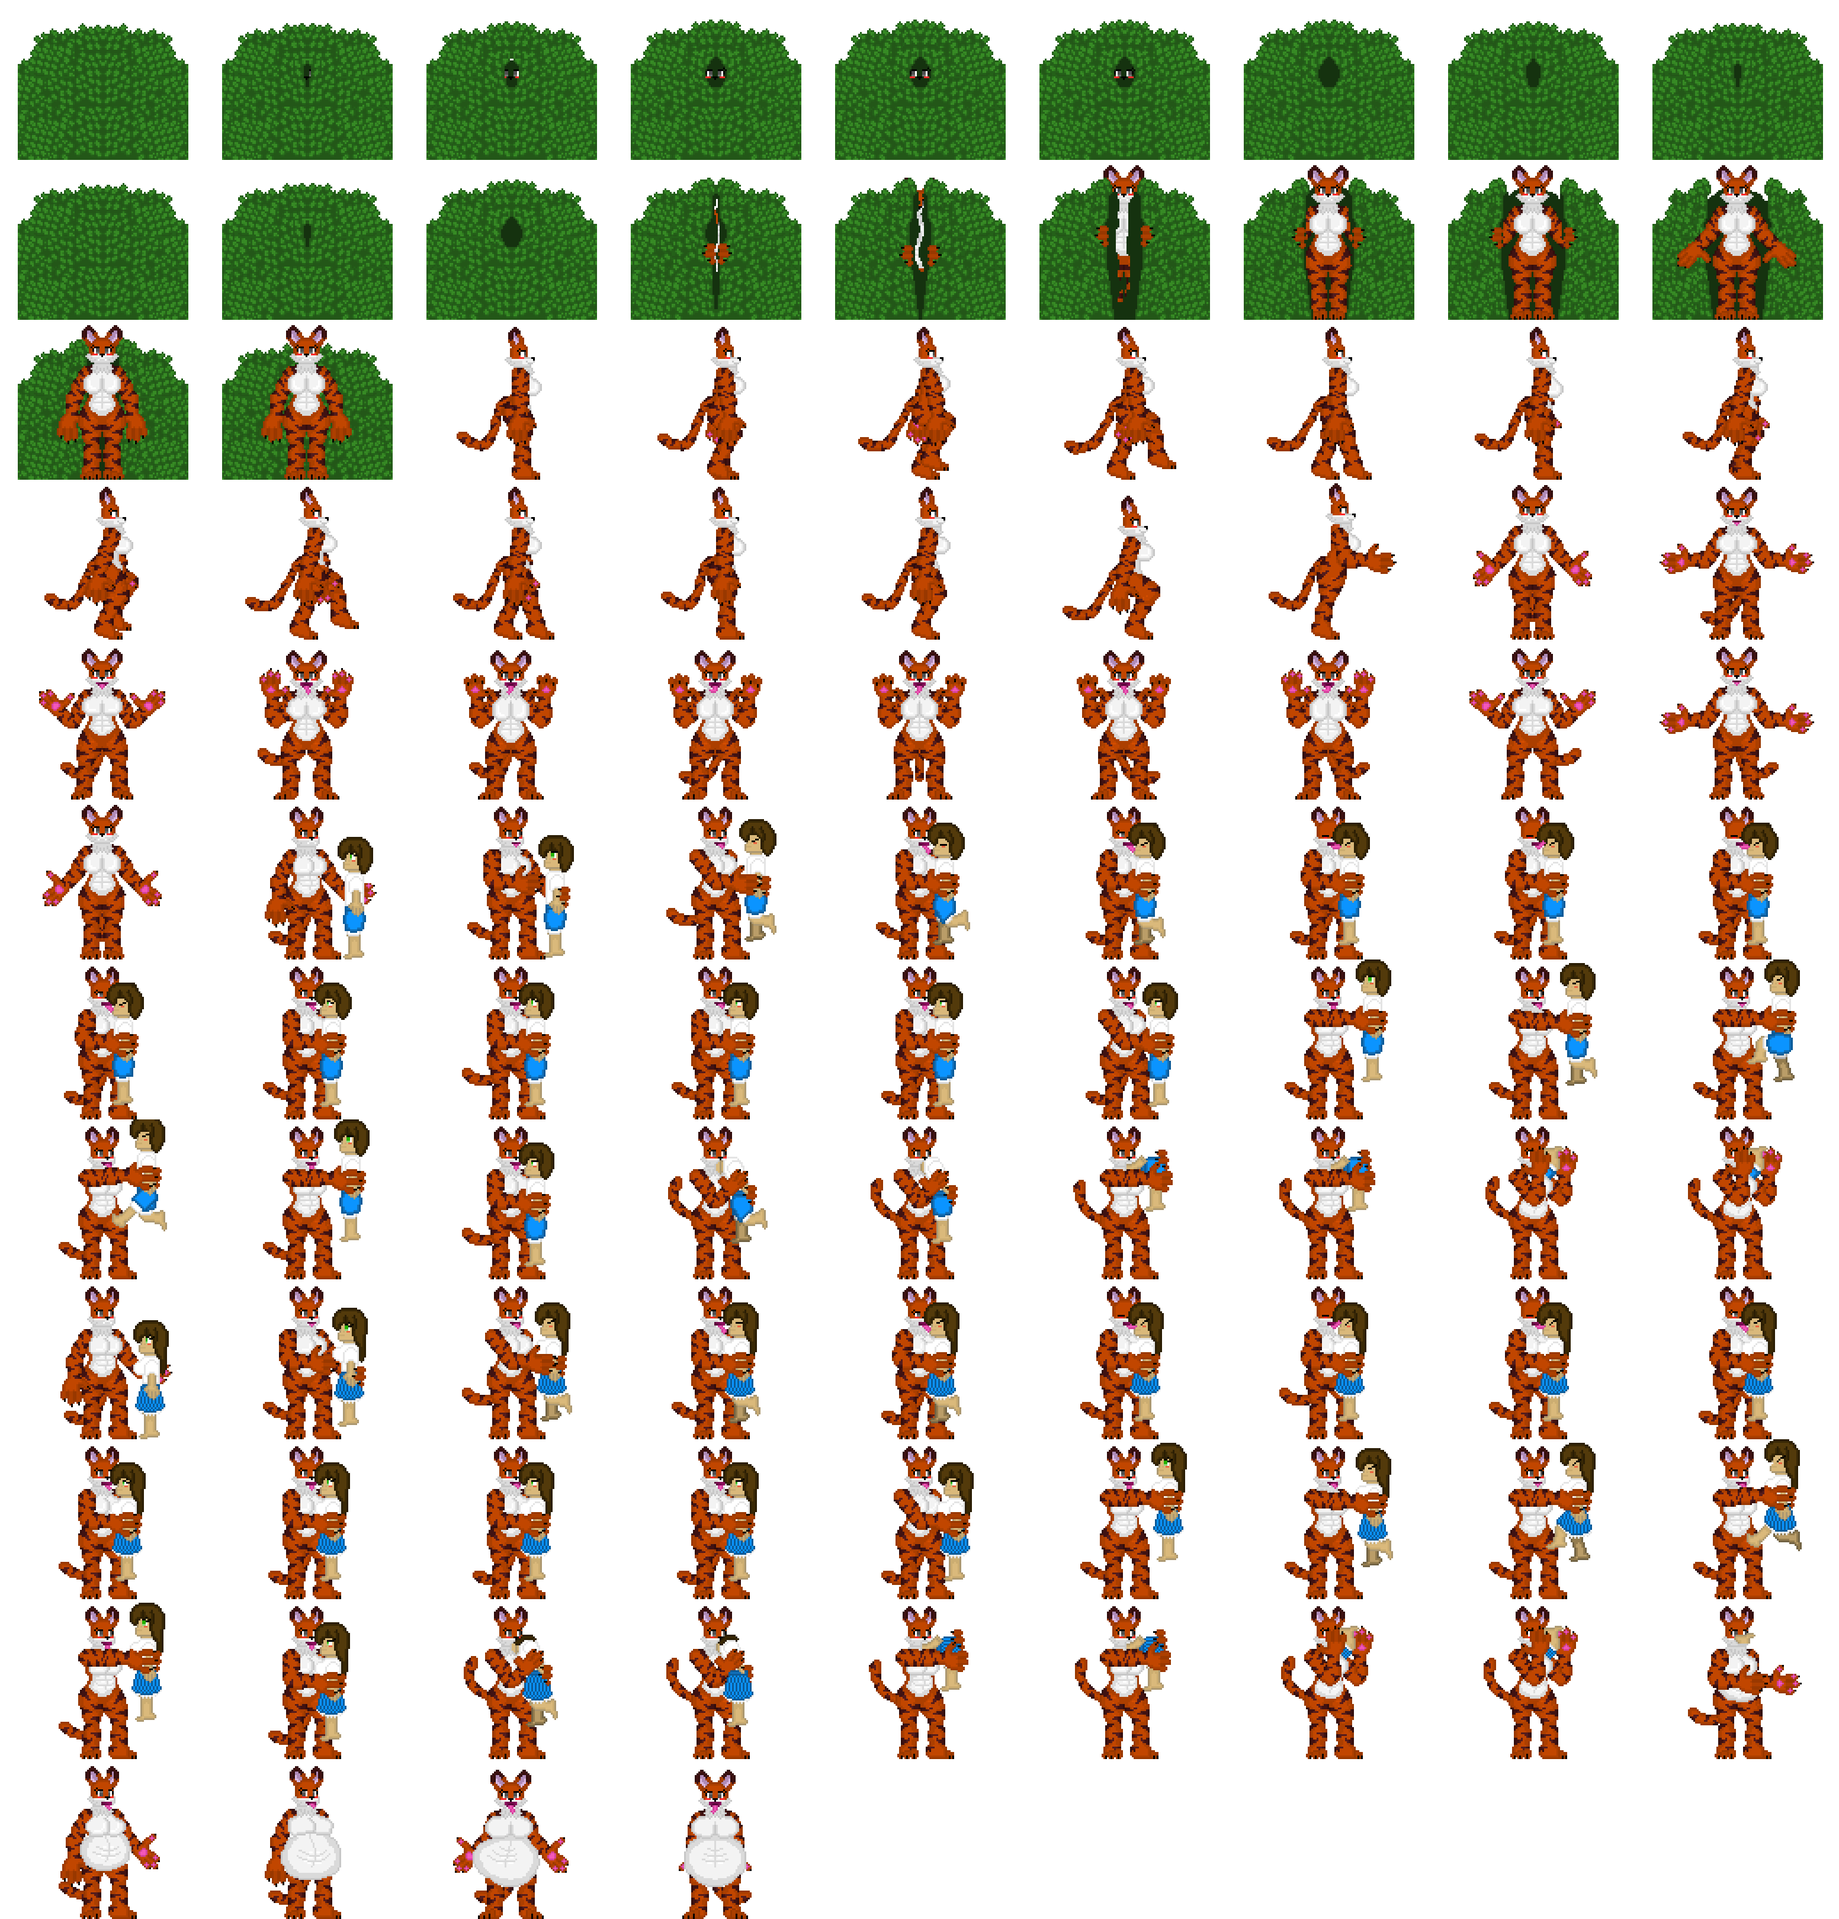
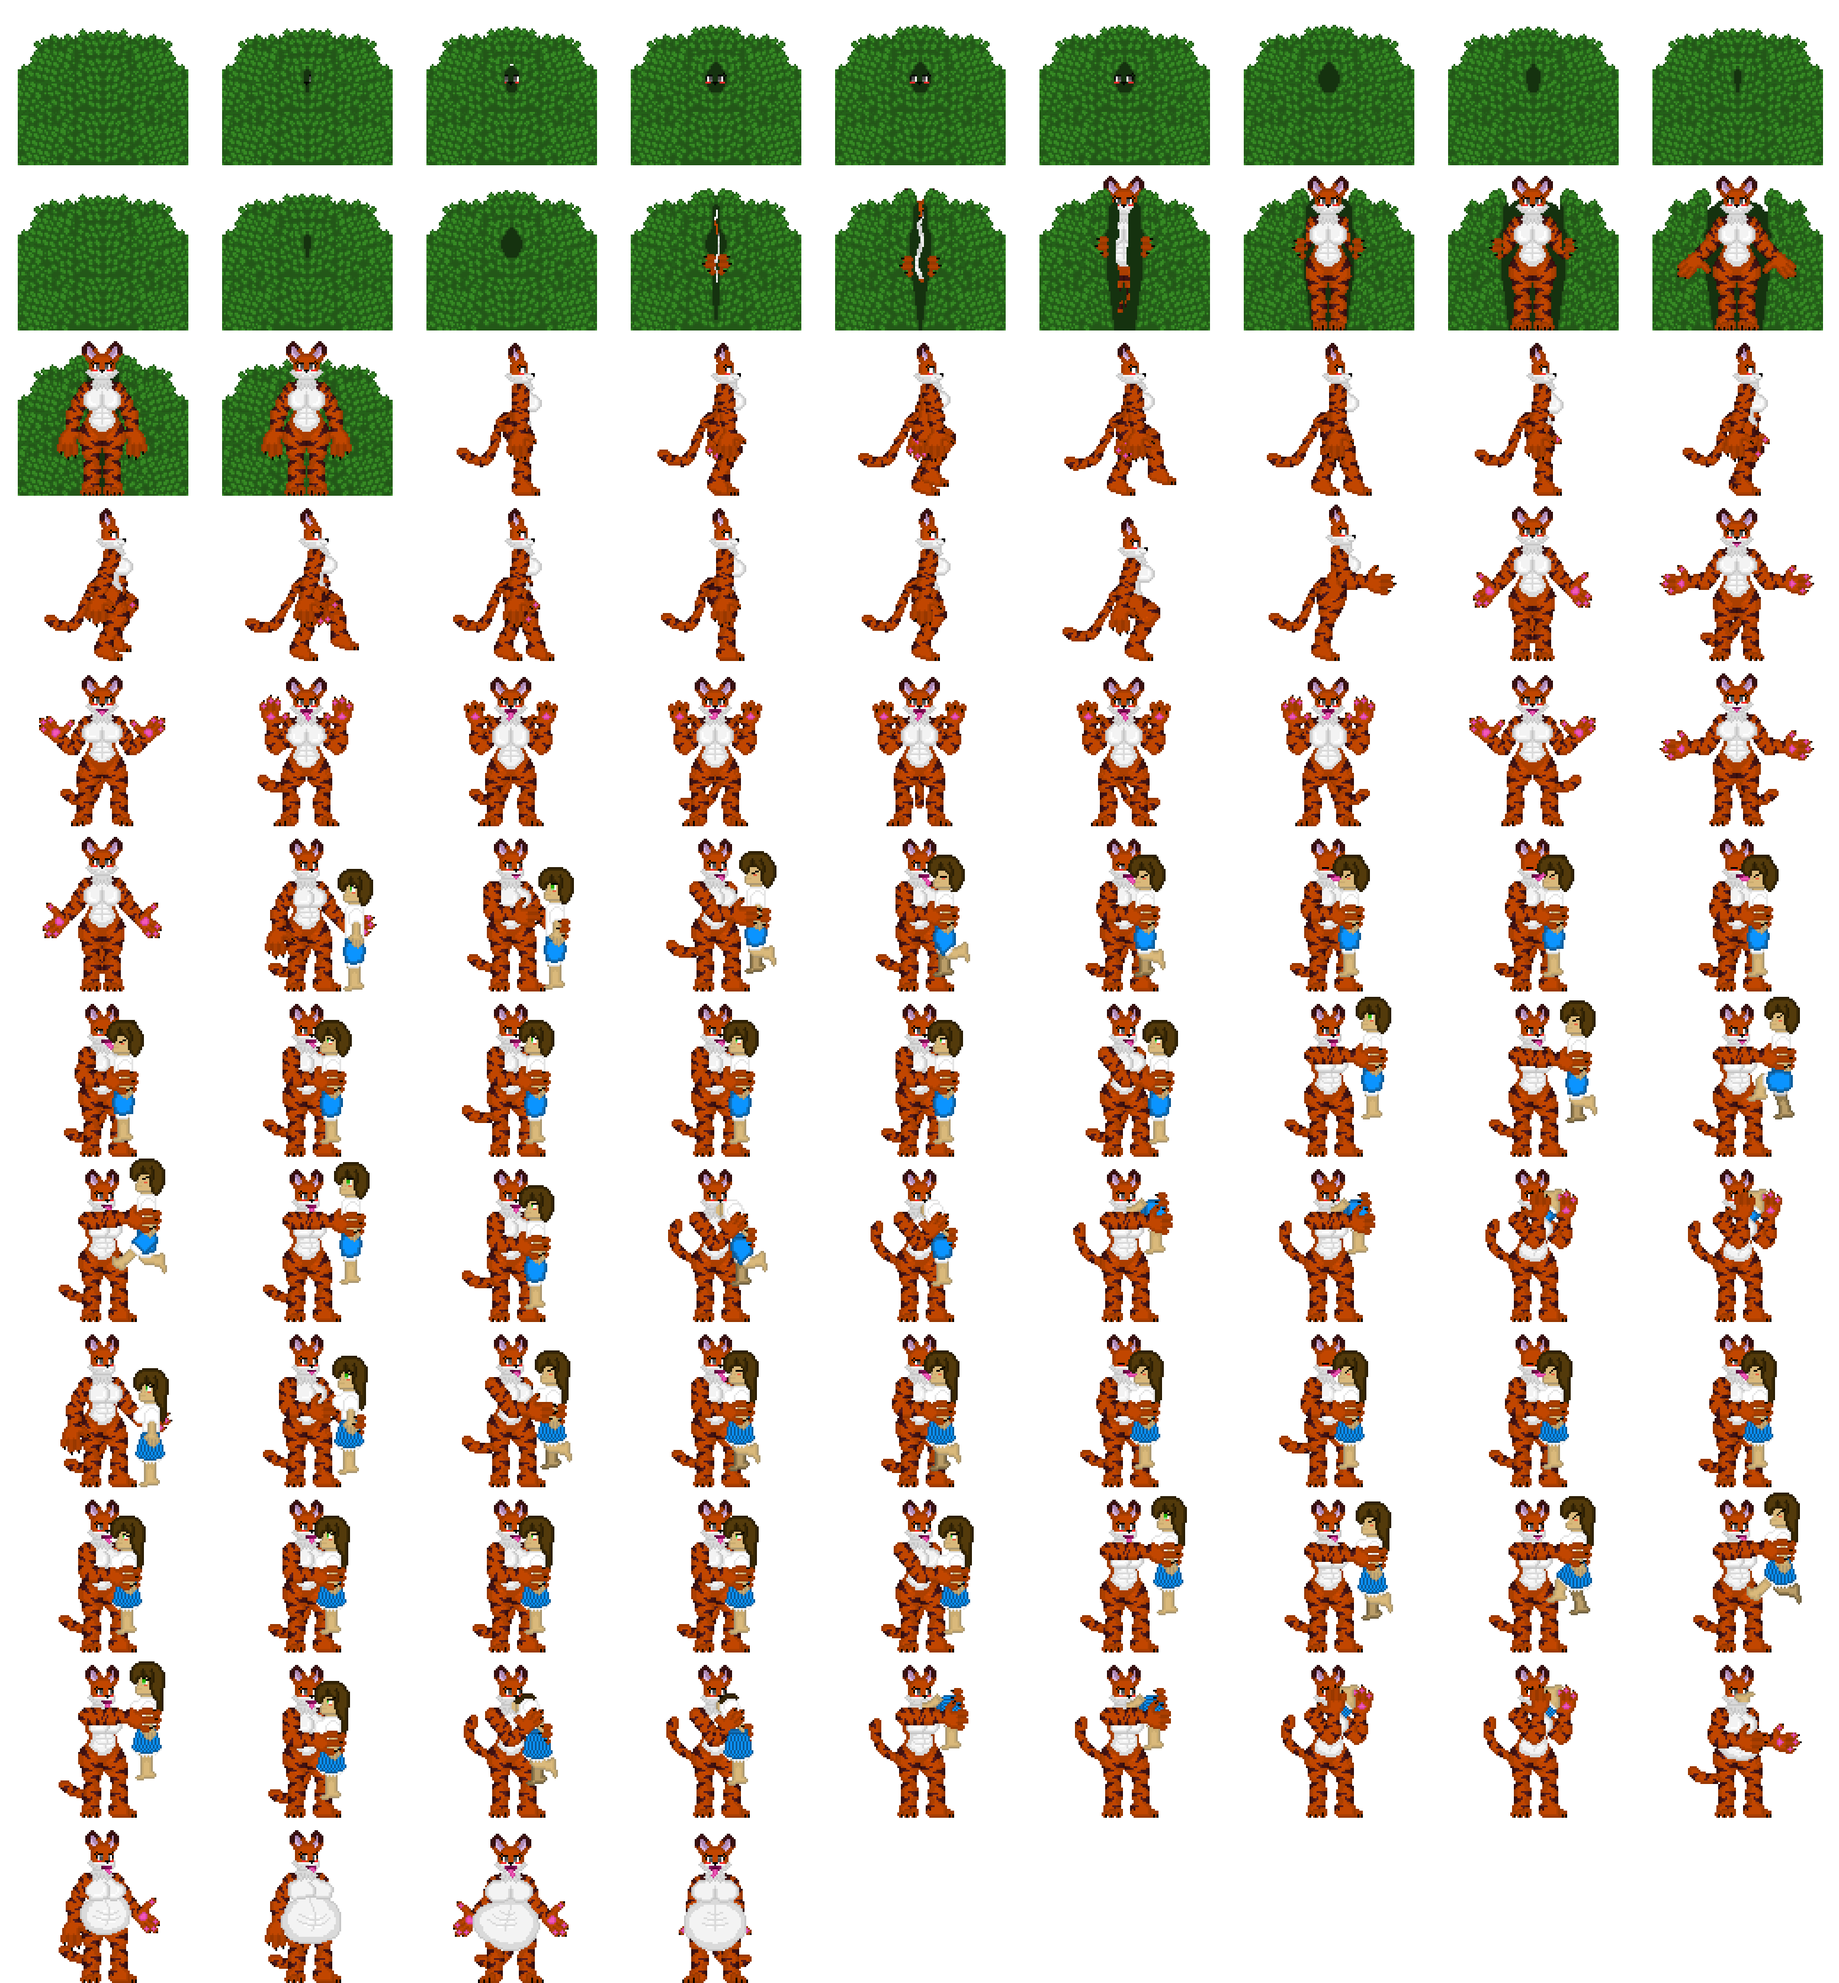
bug fixes and improvements
fixed a few bugs
-w not working for animation viewer.
-tiger animation bugs
-hide mobile buttons during animation viewing

diff --git a/scripts/enemyScripts/tiger.js b/scripts/enemyScripts/tiger.js
@@ -63,7 +63,7 @@ class tiger extends enemy {
         //male animations
         if (sex === 0) {
             this.anims.create({ key: 'tigerGrab', frames: this.anims.generateFrameNames('tigerFemale', { start: 46, end: 59 }), frameRate: 7, repeat: 0 });
-            this.anims.create({ key: 'tigerStruggle', frames: this.anims.generateFrameNames('tigerFemale', { start: 60, end: 64 }), frameRate: 7, repeat: -1 });
+            this.anims.create({ key: 'tigerStruggle', frames: this.anims.generateFrameNames('tigerFemale', { start: 60, end: 63 }), frameRate: 7, repeat: -1 });
             this.anims.create({ key: 'tigerSwallow1', frames: this.anims.generateFrameNames('tigerFemale', { start: 65, end: 71 }), frameRate: 7, repeat: 0 });
 
             this.anims.create({ key: 'tigerBoobaGrab', frames: this.anims.generateFrameNames('tigerFemaleExtension', { start: 27, end: 30 }), frameRate: 7, repeat: -1 });
@@ -90,7 +90,6 @@ class tiger extends enemy {
         }
         //this.anims.create({ key: 'tigerStruggleBreakRight', frames: this.anims.generateFrameNames('tigerFemale', { start: 58, end: 62 }), frameRate: 7, repeat: -1 });
         this.anims.create({ key: 'tigerSwallow2', frames: this.anims.generateFrameNames('tigerFemale', { start: 98, end: 102 }), frameRate: 7, repeat: 0 });
-
         this.anims.create({ key: 'tigerTummyPush1', frames: this.anims.generateFrameNames('tigerFemaleDigestion', { start: 103-103, end: 106-103 }), frameRate: 7, repeat: 0 });
         this.anims.create({ key: 'tigerTummyPush2', frames: this.anims.generateFrameNames('tigerFemaleDigestion', { start: 107-103, end: 110-103 }), frameRate: 7, repeat: 0 });
         this.anims.create({ key: 'tigerTummyWobble1', frames: this.anims.generateFrameNames('tigerFemaleDigestion', { start: 111-103, end: 114-103 }), frameRate: 7, repeat: 0 });
@@ -122,8 +121,8 @@ class tiger extends enemy {
         //sets the gravity for tiger
         this.body.setGravityY(600);
         //possitions her sprite box correctly along with her hitbox
-        this.setSize(100, 250, true);
-        this.setOffset(100, 20);
+        this.setSize(100, 253, true);
+        this.setOffset(120, 25);
 
         //if the tiger is hungry then
         if(this.tigerHasEatenRabbit === false){
@@ -390,8 +389,8 @@ class tiger extends enemy {
     gameOver(version) {
         
         //puts the sprite and hitbox in the correct locations.
-        this.setSize(100, 250, true);
-        this.setOffset(100, 20);
+        this.setSize(100, 253, true);
+        this.setOffset(120, 25);
         //plays game over animation
 
         if(version === 1){
@@ -1313,6 +1312,9 @@ class tiger extends enemy {
 
             //object is on view layer 5 so enemy is infront of others.
             this.setDepth(5);
+
+            //hides the mobile controls in the way of the tab/skip indicator.
+            controlKeyEmitter.emit(controlKeyEvent.toggleForStruggle, false);
 
             //make an object which is passed by refrence to the emitter to update the hp values so the enemy has a way of seeing what the current health value is.
             let playerHealthObject = {

diff --git a/scripts/sceneScripts/dreams/dreamForest.js b/scripts/sceneScripts/dreams/dreamForest.js
@@ -25,18 +25,19 @@ class dreamForest extends defaultScene {
       this.load.tilemapTiledJSON("dream_forest_map" , "assets/tiledMap/Dream/Dream_Forest.json");
 
       this.load.image("forest_source_map" , "assets/tiledMap/LockWood/Forest_Tileset/Forest_Tileset.png");
-      
+      this.load.image("cave_source_map" , "assets/tiledMap/LockWood/Cave_Tileset/Cave_Tileset.png");
+
       this.defaultPreload();
 
       this.load.spritesheet('dreamBackground', 'assets/backgrounds/dream_background.png',{frameWidth: 1400 , frameHeight: 664});
 
-      this.load.spritesheet('tigerFemale', 'assets/enemys/tigerFemaleAll.png',{frameWidth: 345, frameHeight: 270 });
-      this.load.spritesheet('tigerFemaleDigestion', 'assets/enemys/tigerFemaleAll.png',{frameWidth: 345, frameHeight: 270 });
-      this.load.spritesheet('tigerFemaleExtension', 'assets/enemys/tigerFemaleAllExtension.png',{frameWidth: 345, frameHeight: 270 });
+      this.load.spritesheet('tigerFemale', 'assets/enemys/tigerFemaleAll.png',{frameWidth: 345, frameHeight: 279 });
+      this.load.spritesheet('tigerFemaleDigestion', 'assets/enemys/tigerFemaleAllDigestion.png',{frameWidth: 345, frameHeight: 279 });
+      this.load.spritesheet('tigerFemaleExtension', 'assets/enemys/tigerFemaleAllExtension.png',{frameWidth: 345, frameHeight: 279 });
       this.load.spritesheet('rabbitMale', 'assets/enemys/rabbit-male-all.png',{frameWidth: 429, frameHeight: 300 });
       this.load.spritesheet('rabbitFemale', 'assets/enemys/rabbit female-all.png',{frameWidth: 429, frameHeight: 300 });
-      this.load.spritesheet('beeDroneMale1', 'assets/enemys/beeDroneMale.png',{frameWidth: 789, frameHeight: 252 });
-      this.load.spritesheet('beeDroneMale2', 'assets/enemys/beeDroneMale.png',{frameWidth: 789, frameHeight: 252 });
+      this.load.spritesheet('beeDroneMale1', 'assets/enemys/beeDroneMale1.png',{frameWidth: 789, frameHeight: 252 });
+      this.load.spritesheet('beeDroneMale2', 'assets/enemys/beeDroneMale2.png',{frameWidth: 789, frameHeight: 252 });
       this.load.spritesheet('beeDroneFemale1', 'assets/enemys/beeDroneFemale1.png',{frameWidth: 789, frameHeight: 252 });
       this.load.spritesheet('beeDroneFemale2', 'assets/enemys/beeDroneFemale2.png',{frameWidth: 789, frameHeight: 252 });
       this.load.spritesheet('batMale', 'assets/enemys/batMaleAll.png',{frameWidth: 273, frameHeight: 435 });

diff --git a/scripts/enemyScripts/bat.js b/scripts/enemyScripts/bat.js
@@ -845,6 +845,9 @@ class bat extends enemy {
             //object is on view layer 5 so enemy is infront of others.
             this.setDepth(5);
 
+            //hides the mobile controls in the way of the tab/skip indicator.
+            controlKeyEmitter.emit(controlKeyEvent.toggleForStruggle, false);
+
             //plays jumpy sound during grab.
             if (this.playerProgressingAnimation === false) {
                 this.playJumpySound('3',700);
@@ -873,7 +876,7 @@ class bat extends enemy {
             if (this.playerProgressingAnimation === false) {
 
             // handles input for progressing animation
-            console.log('this.scene.checkDPressed()',this.scene.checkDPressed())
+            //console.log('this.scene.checkDPressed()',this.scene.checkDPressed())
             if (this.scene.checkDPressed() === true) {
                 this.playerProgressingAnimation = true;
                 }
@@ -886,8 +889,8 @@ class bat extends enemy {
                 }      
             }
 
+            //console.log("this.playerProgressingAnimation: ",this.playerProgressingAnimation)
             if( this.playerProgressingAnimation === true){
-                
                 //calls animation grab code until the animation is finished
                 if(this.playerDefeatedAnimationStage <= this.playerDefeatedAnimationStageMax){
                     //handle the defeated logic that plays defeated animations 

diff --git a/scripts/sceneScripts/levels/TestForest.js b/scripts/sceneScripts/levels/TestForest.js
@@ -29,9 +29,9 @@ class TestForest extends defaultScene {
       this.load.image("forest_source_map" , "assets/tiledMap/LockWood/Forest_Tileset/Forest_Tileset.png");
       this.load.tilemapTiledJSON("TestForestMap" , "assets/tiledMap/LockWood/Forest_Tileset/Test_Forest.json");
 
-      this.load.spritesheet('tigerFemale', 'assets/enemys/tigerFemaleAll.png',{frameWidth: 345, frameHeight: 270 });
-      this.load.spritesheet('tigerFemaleDigestion', 'assets/enemys/tigerFemaleAllDigestion.png',{frameWidth: 345, frameHeight: 270 });
-      this.load.spritesheet('tigerFemaleExtension', 'assets/enemys/tigerFemaleAllExtension.png',{frameWidth: 345, frameHeight: 270 });
+      this.load.spritesheet('tigerFemale', 'assets/enemys/tigerFemaleAll.png',{frameWidth: 345, frameHeight: 279 });
+      this.load.spritesheet('tigerFemaleDigestion', 'assets/enemys/tigerFemaleAllDigestion.png',{frameWidth: 345, frameHeight: 279 });
+      this.load.spritesheet('tigerFemaleExtension', 'assets/enemys/tigerFemaleAllExtension.png',{frameWidth: 345, frameHeight: 279 });
       this.load.spritesheet('rabbitMale', 'assets/enemys/rabbit-male-all.png',{frameWidth: 429, frameHeight: 300 });
       this.load.spritesheet('rabbitFemale', 'assets/enemys/rabbit female-all.png',{frameWidth: 429, frameHeight: 300 });
 

diff --git a/scripts/enemyScripts/blueSlimeHM.js b/scripts/enemyScripts/blueSlimeHM.js
@@ -1274,6 +1274,9 @@ class blueSlimeHM extends enemy {
             //object is on view layer 5 so enemy is infront of others.
             this.setDepth(5);
 
+            //hides the mobile controls in the way of the tab/skip indicator.
+            controlKeyEmitter.emit(controlKeyEvent.toggleForStruggle, false);
+
             //make an object which is passed by refrence to the emitter to update the hp values so the enemy has a way of seeing what the current health value is.
             let playerHealthObject = {
                 playerHealth: null

diff --git a/scripts/enemyScripts/blueSlime.js b/scripts/enemyScripts/blueSlime.js
@@ -1123,6 +1123,9 @@ class blueSlime extends enemy {
             //object is on view layer 5 so enemy is infront of others.
             this.setDepth(5);
 
+            //hides the mobile controls in the way of the tab/skip indicator.
+            controlKeyEmitter.emit(controlKeyEvent.toggleForStruggle, false);
+
             //make an object which is passed by refrence to the emitter to update the hp values so the enemy has a way of seeing what the current health value is.
             let playerHealthObject = {
                 playerHealth: null

diff --git a/scripts/enemyScripts/blueSlimeHS.js b/scripts/enemyScripts/blueSlimeHS.js
@@ -721,6 +721,9 @@ class blueSlimeHS extends enemy {
             //object is on view layer 5 so enemy is infront of others.
             this.setDepth(5);
 
+            //hides the mobile controls in the way of the tab/skip indicator.
+            controlKeyEmitter.emit(controlKeyEvent.toggleForStruggle, false);
+
             //make an object which is passed by refrence to the emitter to update the hp values so the enemy has a way of seeing what the current health value is.
             let playerHealthObject = {
                 playerHealth: null

diff --git a/scripts/enemyScripts/beeDrone.js b/scripts/enemyScripts/beeDrone.js
@@ -792,6 +792,9 @@ class beeDrone extends enemy {
             //object is on view layer 5 so enemy is infront of others.
             this.setDepth(5);
 
+            //hides the mobile controls in the way of the tab/skip indicator.
+            controlKeyEmitter.emit(controlKeyEvent.toggleForStruggle, false);
+
             //plays jumpy sound during grab.
             if (this.playerProgressingAnimation === false) {
                 this.playJumpySound('3',700);

diff --git a/scripts/enemyScripts/rabbit.js b/scripts/enemyScripts/rabbit.js
@@ -894,6 +894,9 @@ class rabbit extends enemy {
             //object is on view layer 5 so enemy is infront of others.
             this.setDepth(5);
 
+            //hides the mobile controls in the way of the tab/skip indicator.
+            controlKeyEmitter.emit(controlKeyEvent.toggleForStruggle, false);
+
             //plays jumpy sound during grab.
             if (this.playerProgressingAnimation === false) {
                 this.playJumpySound('3',700);

diff --git a/scripts/sceneScripts/defaultScene.js b/scripts/sceneScripts/defaultScene.js
@@ -1558,7 +1558,7 @@ class defaultScene extends allSceneFunctions {
 
     viewAnimationLogic(enemy){
       //check if the player presses w while in range   
-      if(Phaser.Input.Keyboard.JustDown(this.keyW) === true){
+      if(this.checkWPressed() === true){
           
         //stop the velocity of the player
         enemy.setVelocityX(0);
